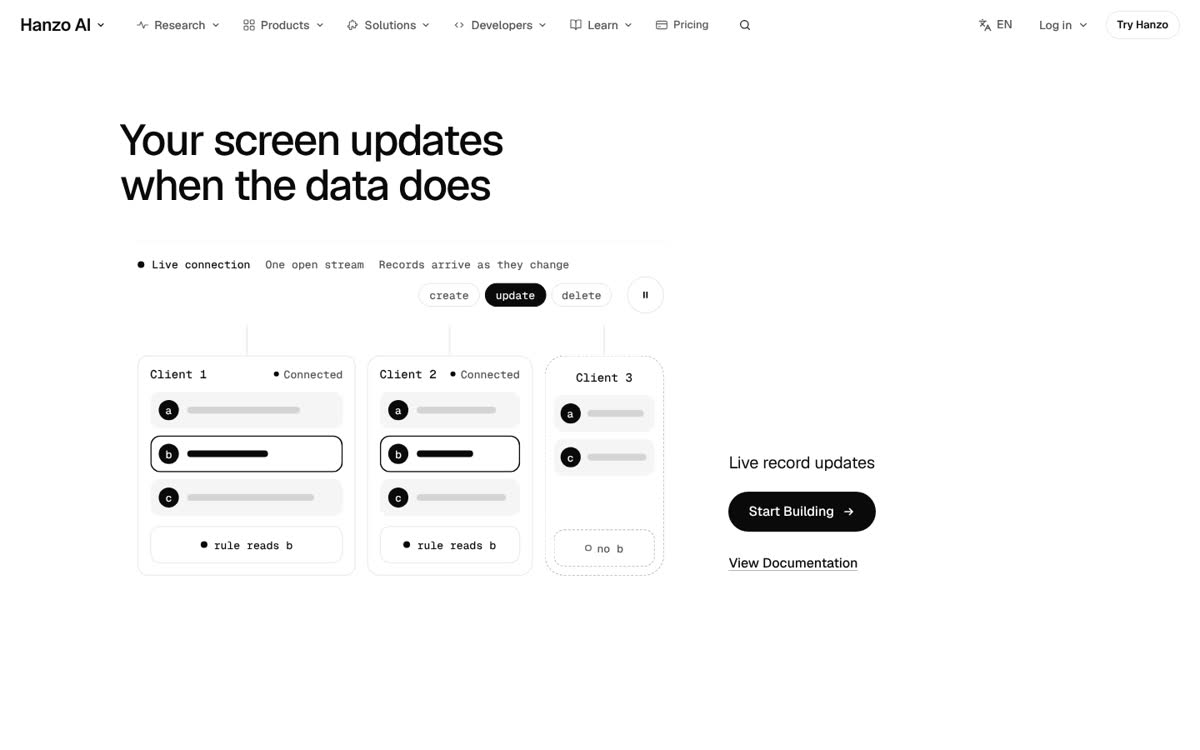
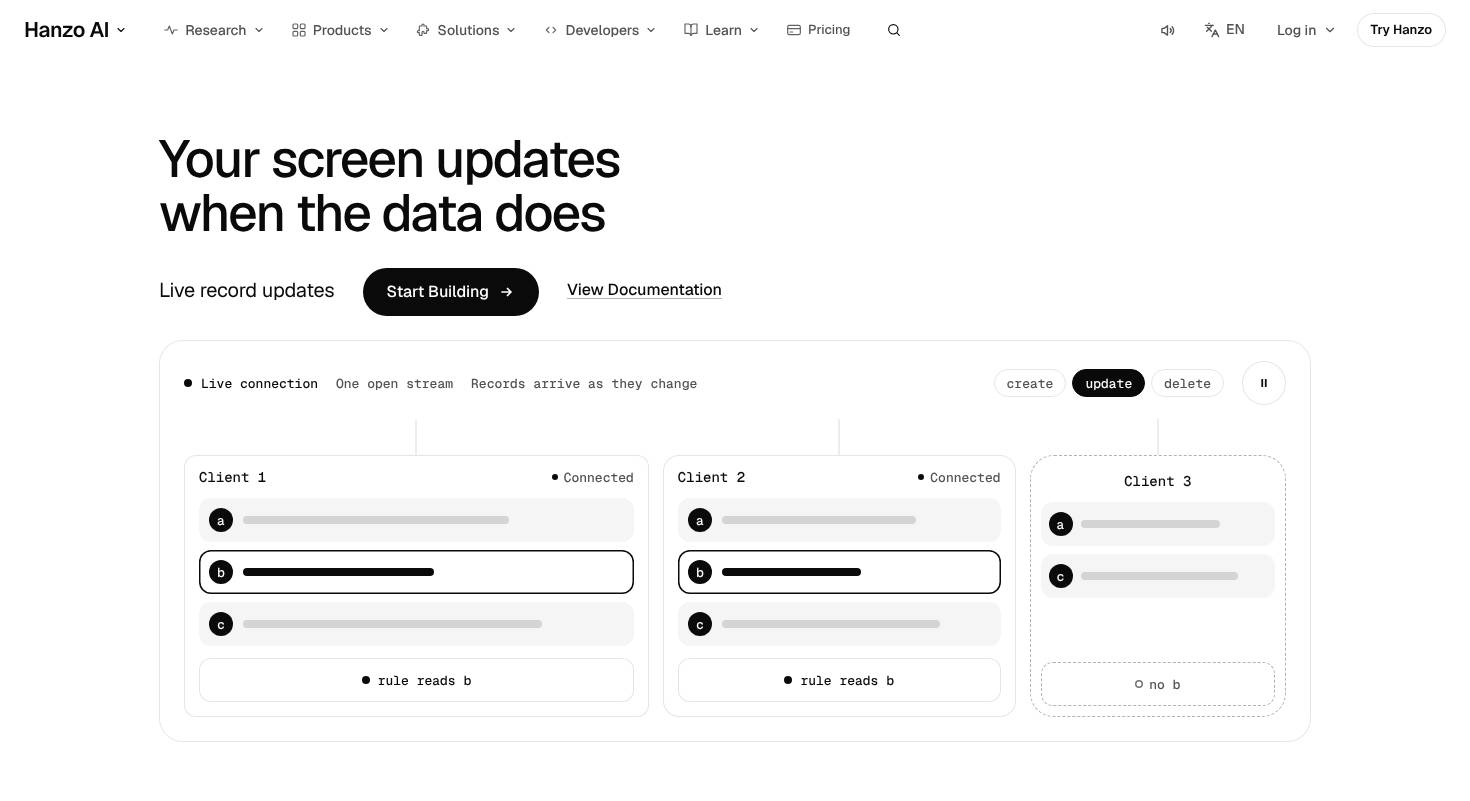
realtime: graph hub re-spaced (no name collisions), gap under graph closed, card drawn as three clients not a second contour; Ready
Claude-Session: https://claude.ai/code/session_01P5YBdwnSSVASfNEEi92hQ4

diff --git a/components/pages/cloud/realtime/RtGraph.jsx b/components/pages/cloud/realtime/RtGraph.jsx
@@ -11,21 +11,23 @@
 import { useEffect, useRef, useState } from 'react';
 import { useFrame } from '../Frame';
 
-/* nodes: id, label, the fact it opens (index into GIVES), shape, and where it rests (wide 760×480, tall 360×560) */
+/* nodes: id, label, the fact it opens (index into GIVES), shape, and where it rests (wide 760×480, tall 360×620).
+   Rests are spaced so no lit link name ever crosses a node's name; on phones the stream's seven link names are left
+   unsaid (its panel says them), since seven names round one hub cannot fit 360 units without touching. */
 export const NODES = [
-  ['del', 'delete · b', 3, 'ev', [70, 64], [56, 36]],
-  ['store', 'one store', 4, 'sq', [130, 212], [176, 66]],
-  ['api', 'API', 4, 'dot', [104, 388], [310, 118]],
-  ['rule', 'access rule', 5, 'dia', [262, 302], [196, 196]],
-  ['ba', 'org a · broker', 2, 'dot', [330, 122], [56, 262]],
-  ['bb', 'org b · broker', 2, 'dot', [392, 404], [306, 282]],
-  ['stream', 'GET /v1/realtime', 0, 'ring', [528, 256], [180, 404]],
-  ['grant', 'grant', 6, 'dot', [552, 70], [44, 372]],
-  ['dep', 'deployment', 7, 'dot', [556, 438], [314, 400]],
-  ['subs', 'subscriptions', 1, 'dot', [418, 246], [116, 328]],
-  ['c1', 'Client 1', 0, 'cl', [690, 148], [58, 552]],
-  ['c2', 'Client 2', 0, 'cl', [700, 268], [180, 560]],
-  ['c3', 'Client 3', 5, 'cl', [684, 388], [302, 552]],
+  ['del', 'delete · b', 3, 'ev', [64, 58], [52, 40]],
+  ['store', 'one store', 4, 'sq', [150, 190], [180, 72]],
+  ['api', 'API', 4, 'dot', [80, 400], [308, 128]],
+  ['rule', 'access rule', 5, 'dia', [228, 318], [200, 176]],
+  ['ba', 'org a · broker', 2, 'dot', [330, 104], [60, 262]],
+  ['bb', 'org b · broker', 2, 'dot', [340, 404], [300, 262]],
+  ['stream', 'GET /v1/realtime', 0, 'ring', [500, 254], [180, 420]],
+  ['grant', 'grant', 6, 'dot', [508, 58], [300, 356]],
+  ['dep', 'deployment', 7, 'dot', [500, 442], [304, 470]],
+  ['subs', 'subscriptions', 1, 'dot', [320, 250], [72, 372]],
+  ['c1', 'Client 1', 0, 'cl', [688, 120], [60, 560]],
+  ['c2', 'Client 2', 0, 'cl', [700, 256], [180, 568]],
+  ['c3', 'Client 3', 5, 'cl', [688, 392], [300, 560]],
 ];
 const IDX = Object.fromEntries(NODES.map((n, i) => [n[0], i]));
 /* links, each with the name it shows when lit */
@@ -181,7 +183,7 @@ export default function RtGraph({ sel, onPick, onPeek, run, calm, ev, evAt }) {
         {LINKS.map((l, i) => <line key={i} ref={(el) => (els.current.l[i] = el)} className={'rg-l' + (on(l) ? ' on' : '') + (ev[0] === 'delete' && l[1] === 'store' && l[0] === 'del' ? ' ev' : '')} />)}
         {ROUTES.map((_, r) => <circle key={r} ref={(el) => (els.current.p[r] = el)} r="5" className="rg-rec" opacity="0" />)}
         {/* a name shared by several lit links (text/event-stream to each client) is said once */}
-        {LINKS.map((l, i) => <text key={i} ref={(el) => (els.current.t[i] = el)} className={'rg-ln' + (on(l) && LINKS.findIndex((m) => on(m) && m[2] === l[2]) === i ? ' on' : '')} textAnchor="middle">{l[2]}</text>)}
+        {LINKS.map((l, i) => <text key={i} ref={(el) => (els.current.t[i] = el)} className={'rg-ln' + (on(l) && !(mode === 'tall' && id === 'stream') && LINKS.findIndex((m) => on(m) && m[2] === l[2]) === i ? ' on' : '')} textAnchor="middle">{l[2]}</text>)}
       </g>
       {NODES.map(([nid, label, fact, shape], i) => {
         const p = NODES[i][k];

diff --git a/components/pages/cloud/Realtime.css b/components/pages/cloud/Realtime.css
@@ -287,6 +287,14 @@
 .rt-open-acts { display: flex; flex-wrap: wrap; gap: 4px 28px; margin-top: 20px; }
 .rt-open .lx-rel-h, .rt-open .lx-rel-grid { grid-column: 2; }
 .rt-open .lx-rel-grid[data-n='1'] .lx-rel-art { height: 160px; }
+/* the card's own drawing (not a Sigil, so the close keeps the page's one contour): the hero's idea in three lines —
+   three clients' timelines and the same record landing on all three at once; hover carries it along together */
+.rt-open .lx-rel-sigil { display: none; }
+.rt-open .lx-rel-art { position: relative; }
+.rt-open .lx-rel-art::before { content: ''; position: absolute; inset: 0 24px; background: linear-gradient(#a3a3a3, #a3a3a3) 0 30% / 100% 1px no-repeat, linear-gradient(#a3a3a3, #a3a3a3) 0 50% / 100% 1px no-repeat, linear-gradient(#a3a3a3, #a3a3a3) 0 70% / 100% 1px no-repeat; }
+.rt-open .lx-rel-art::after { content: ''; position: absolute; left: 32%; top: calc(30% - 6px); width: 36px; height: 12px; border-radius: 6px; background: #0a0a0a; box-shadow: 0 calc(var(--rt-gap, 32px)) 0 #0a0a0a, 0 calc(var(--rt-gap, 32px) * 2) 0 #0a0a0a; transition: transform .5s cubic-bezier(.4, 0, .2, 1); }
+.rt-open .lx-rel-grid[data-n='1'] .lx-rel-art { --rt-gap: 32px; }
+@media (hover: hover) { .rt-open .lx-rel-card:hover .lx-rel-art::after { transform: translateX(72px); } }
 .rt .lx-close { padding-top: clamp(72px, 9vw, 150px); }
 /* text links answer a press too (the kit's lx-text has a hover but no press) */
 .rt .lx-text, .rt .lx-close-repo { transition: text-decoration-color .15s cubic-bezier(0, 0, .2, 1), transform .15s cubic-bezier(0, 0, .2, 1); }
@@ -397,7 +405,7 @@
 .rt-frame { position: relative; background: #fff; border: 1px solid var(--line); border-radius: 24px; overflow: hidden; }
 
 /* the signature: what the stream gives you, as a living graph (8) beside the words of the part it lights (5) */
-.rt-gives.lx-sec { padding-top: clamp(40px, 5vw, 80px); }
+.rt-gives.lx-sec { padding-top: clamp(40px, 5vw, 80px); padding-bottom: clamp(40px, 5vw, 80px); }
 .rt-gives-h { display: grid; grid-template-columns: 8fr 5fr; gap: clamp(32px, 5vw, 72px); align-items: end; margin-bottom: clamp(24px, 3vw, 40px); }
 .rt-gives-b { display: grid; grid-template-columns: 8fr 5fr; gap: clamp(32px, 5vw, 72px); align-items: center; }
 .rt-graph-w { position: relative; border-radius: 24px; background: #f5f5f5; padding: 8px 12px 12px; }

diff --git a/components/pages/cloud/Realtime.jsx b/components/pages/cloud/Realtime.jsx
@@ -19,9 +19,11 @@
    tenant map, "Get Realtime" growing at the close. Tweens only (ease-emphasis 300 ms, ease-in-out 400–500 ms).
    States differ by fill, weight, dash and a shape, never by hue. Every word and link is Hanzo's; record contents,
    ids and org names are examples.
-   V2: three live clients under the two-line title beside the one ask; then the living graph of the stream with its
-   words beside it; the statement and the subscribe call; use cases on a drag rail; the handshake in the black room;
-   growth beside the tenant map; a calm card strip; the close. Deck greys, tweens only. */
+   V2: 8/10 three live clients under the two-line title beside the one ask; then the living graph of the stream with
+   its words beside it (rests spaced so no name touches another; phones keep the hub's link names in its panel); the
+   statement and the subscribe call close under it; use cases on a drag rail; the handshake in the black room; growth
+   beside the tenant map; the card drawn as three clients taking one record (the close keeps the one contour); the
+   close. Deck greys, tweens only. */
 import { useEffect, useRef, useState } from 'react';
 import { motion, AnimatePresence, useMotionValue, animate } from 'motion/react';
 import { A } from '../../kit';

diff --git a/docs/coverage/realtime.md b/docs/coverage/realtime.md
@@ -66,7 +66,7 @@ Done here: `parity.py /realtime`: 138/138 text, 4/4 links. `c3pal.cjs`: 0 runs u
 - [x] One icon set; no icon in a rounded box
 - [x] Differs from neighbours in hero medium and room order
 
-Done here: `taste.py` OK; `c3pal.cjs`: 0 computed colours off the deck at both widths. The stream map and tenant map are outlined (1px, radius 24), the wire a flat #171717 tile, the subscribe call white with one hairline, use cases flat #f5f5f5 at 24 with 8px inner art (concentric), nothing shadowed. Two-part sections sit on the 8/5 split, bottom-aligned. Chapter numbers sit under their titles (kit). Hero medium: three devices of three sizes receiving one record, unlike any neighbour.
+Done here: `taste.py` OK; `c3pal.cjs`: 0 computed colours off the deck at both widths. The graph tile is flat #f5f5f5 and the tenant map outlined (1px, radius 24), the wire a flat #171717 tile, the subscribe call white with one hairline, use cases flat #f5f5f5 at 24 with 8px inner art (concentric), nothing shadowed. Two-part sections sit on the 8/5 split, bottom-aligned. The graph names every node and, when lit, its links, each with a #f5f5f5 halo, and its rests keep every name clear of the others. Hero medium: three devices of three sizes receiving one record, unlike any neighbour.
 
 ## 8. UI component library
 - [x] Every control has hover, press, focus-visible, disabled, loading (n/a for disabled/loading: nothing waits on a network)
@@ -92,7 +92,7 @@ Done here: Signature `graph` (MOTION-MAP, 7 Nov), second screen: "What the strea
 - [x] Budgets met; nothing missing; alt on every image (n/a: no images)
 - [x] No dimmed or filtered photo; 4+ real visuals together where the page has them (n/a: Hanzo has no Realtime media)
 
-Done here: Objects are product UI (three clients, the subscribe call, the stream map, six use-case vignettes, realtime.js, the tenant map) and Sigils drawn from the page's own figures [30, 3, 2].
+Done here: Objects are product UI (three clients, the living graph, the subscribe call, six use-case vignettes, realtime.js, the tenant map). The "Open a stream" card no longer repeats the close's contour: its picture is the hero's idea drawn in three lines (three clients' timelines with the same record landing on all three at once, carried along together on hover), so the close's Sigil from [30, 3, 2] is the page's one contour.
 
 ## 11. Mobile and responsive
 - [x] 375×812 and 1470×801 pass with no overlap
@@ -100,7 +100,7 @@ Done here: Objects are product UI (three clients, the subscribe call, the stream
 - [x] Every target 44px or more; every hover has a tap path
 - [x] Primary ask above the fold at 375×667
 
-Done here: `c3w320.cjs`: scrollWidth 320 at 320 wide; the ask's bottom at 259px at 375×667 (critic's measurement); 0 targets under 44px at 375 (the eight-tick rail uses the gutters; at 320 its ticks are 39px wide, listed in the request). The stream map sits in a fixed 38svh window so chapter words never move; `pinchk.cjs` 9/9 ok. Hover previews have tap paths (the figures and calls are buttons).
+Done here: No sideways scroll at 375 or 320 (check, 7 Nov); the ask's bottom at 259px at 375×667 (measured 7 Nov). The graph has its own tall layout on phones (360×620) with rests spaced so no name touches another; the stream hub's seven link names are left to its panel there, since they cannot fit round one hub at that width. Hover previews have tap paths (nodes are buttons; tapping one opens its words).
 
 ## 12. Accessibility (WCAG 2.2 AA)
 - [x] Contrast measured, text at 4.5:1 or better
@@ -157,4 +157,4 @@ Done here: The product's states are designed in the demo: connected, a dropped n
 - [x] `V2: <score>/10 <one line>` in the page file's top comment
 - [x] Review read: `docs/review/realtime.md` (7/10 on the walk before this build). In this build the pinned chapters are shorter (42 per step, was 66: about 3,500px instead of 5,559), "Deletes are checked too" is the run's scale moment (the three clients grow 12% while it is the chapter), and the empty bands after the pin and under the growth list are cut. The close's ask is the shared `LaunchClose` (its magnetic pull is that component's; not claimed for this page). CLS after the change: 0.002 at 1470, 0.001 at 375 and 320.
 
-Done here: `realtime.hero` and `realtime.close` are set; `V2:` heads `Realtime.jsx` and the route (the builder's own line; the verdict that counts is `docs/review/realtime.md`). Gallery: `docs/gallery/realtime/d.mp4`, `d.jpg`, `p.jpg`. Checks at push: 200, parity 0 missing, taste OK, variety OK, unique OK, fs-audit clear, pinchk 9/9.
+Done here: `realtime.hero` and `realtime.close` are set; `V2:` heads `Realtime.jsx`. Review: `docs/review/realtime.md` marked Ready 7 Nov (slice D) after the graph's crowded hub was re-spaced, the gap under the graph closed and the card's art made the page's own. Gallery: `docs/gallery/realtime/` (d.jpg, p.jpg, d-graph.jpg, d.mp4). Checks: 0 console errors, no sideways scroll, parity 0 missing, taste OK, unique OK.

diff --git a/docs/review/realtime.md b/docs/review/realtime.md
@@ -1,4 +1,5 @@
 # /realtime — James-eye review
+Ready: 2026-11-07, slice D — graph hub re-spaced so no names collide (phones keep hub link names in the panel), gap under the graph closed, the card drawn as three clients taking one record instead of a second contour
 
 Verdict: 7/10
 First complaint: "Top's good, the three screens are alive. Then I scroll and it's seven screens of the same thing: words on the left, the same three little boxes on the right, lots of white around them. It's the right idea, it just goes on too long and nothing gets big. Then there's a big empty gap before the next bit."
